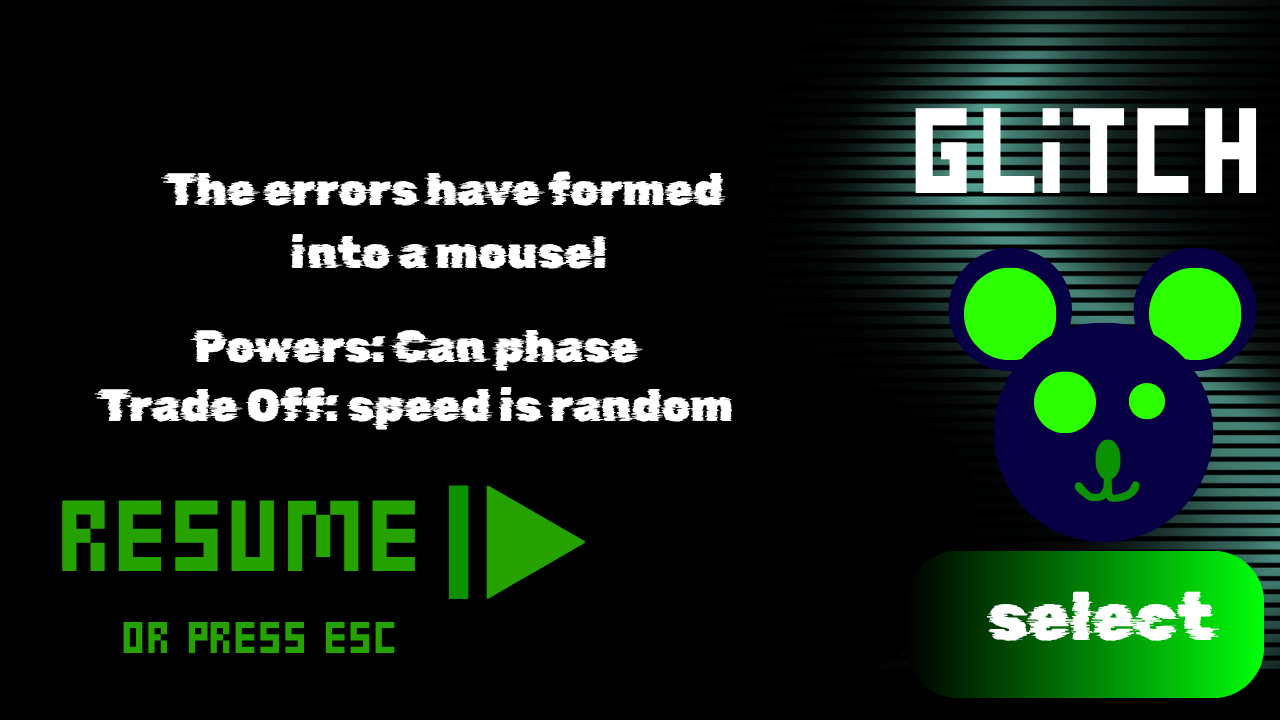
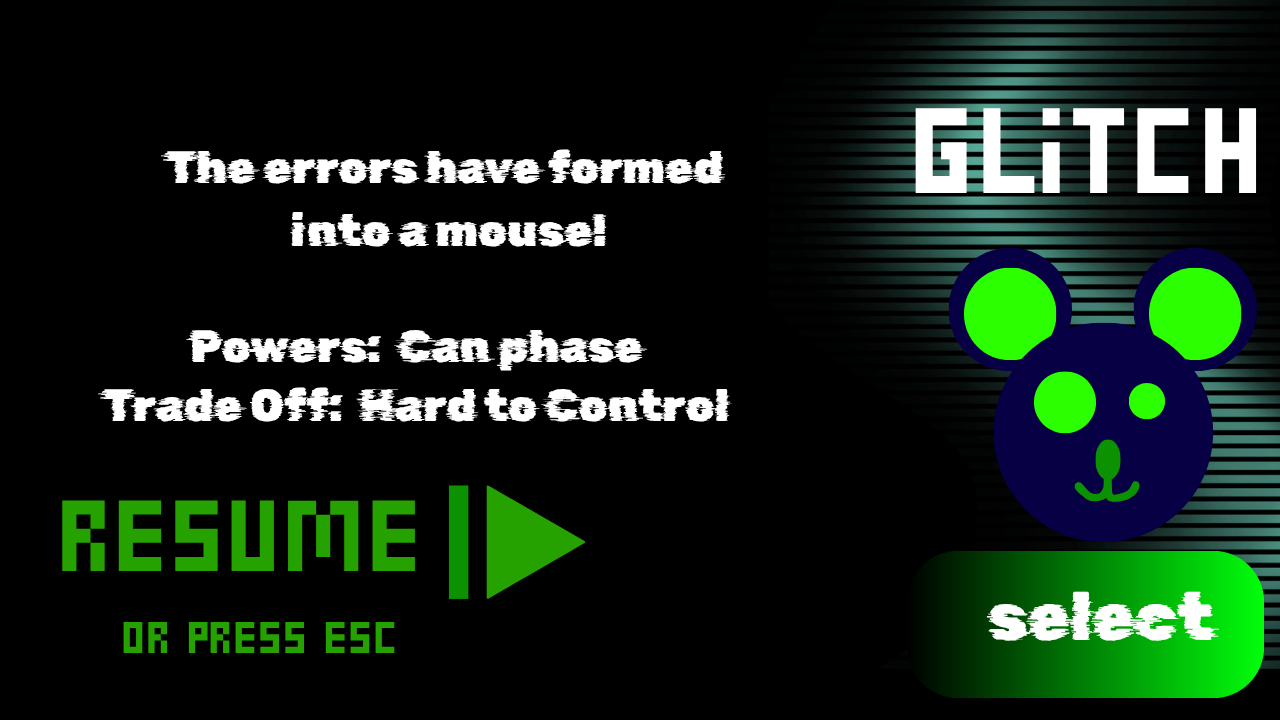
succesfully finished implementing new character glitch

Changed region(s): [[0.125, 0.1833, 0.5625, 0.3972], [0.0625, 0.4583, 0.5938, 0.6111]]

diff --git a/pacman/script.js b/pacman/script.js
@@ -33,6 +33,7 @@ let score = 0
 let steroidsarr = []
 let steroids2arr = []
 let wallsarr = []
+let boundaries = []
 let holesarr = []
 let extra = 0
 let pacmanspeed = 1+extra
@@ -43,25 +44,26 @@ console.log((canvas.width/4*3)/2-blocksize*4.5)
 console.log(blocksize/2)
 let grid = []
 const maps = {
-    0:["1111111111111111111111111111111".split(""),
-       "1000000000015555555510000000001".split(""),
-       "1011111111011115111110111111101".split(""),
-       "1014000000000000000000000000101".split(""),
-       "1010101111111110111111111010101".split(""),
-       "1010101000000000100000041010101".split(""),
-       "1000101011111010101111101010001".split(""),
-       "1010101000000010101000101010101".split(""),
-       "1010101011111010001010101010101".split(""),
+    //0 = hall, 1 = wall, 3 = portal, 4 = big orb, 5 = ghost chamber, 9 = special bounds
+    0:["9999999999999999999999999999999".split(""),
+       "9000000000015555555510000000009".split(""),
+       "9011111111011115111110111111109".split(""),
+       "9014000000000000000000000000109".split(""),
+       "9010101111111110111111111010109".split(""),
+       "9010101000000000100000041010109".split(""),
+       "9000101011111010101111101010009".split(""),
+       "9010101000000010101000101010109".split(""),
+       "9010101011111010001010101010109".split(""),
        "3010000000001010100010101010103".split(""),
-       "1010101011101010101010101010101".split(""),
-       "1010101011101010101010101010101".split(""),
-       "1000101011101010000010101010001".split(""),
-       "1010101000041010101010101010101".split(""),
-       "1010101111111010101010101010101".split(""),
-       "1010000000000000000000000004101".split(""),
-       "1011110111111110111111110111101".split(""),
-       "1400000000000000000000000000001".split(""),
-       "1111111111111111111111111111111".split("")],
+       "9010101011101010101010101010109".split(""),
+       "9010101011101010101010101010109".split(""),
+       "9000101011101010000010101010009".split(""),
+       "9010101000041010101010101010109".split(""),
+       "9010101111111010101010101010109".split(""),
+       "9010000000000000000000000004109".split(""),
+       "9011110111111110111111110111109".split(""),
+       "9400000000000000000000000000009".split(""),
+       "9999999999999999999999999999999".split("")],
 }
 const maps2 = {
     0:["1111111111111111111111111111111".split(""),
@@ -511,6 +513,11 @@ class steroids2{
         this.radius = 14
     }
     draw() {
+        if(skin!='glitch'){
+            cheeseImg.src = 'cheese.png'
+        }else{
+            cheeseImg.src = 'glitcheese-removebg-preview.png'
+        }
         context.drawImage(
             cheeseImg, 
             this.position.x-20, 
@@ -542,6 +549,7 @@ class wall{
 let clock = 0
 const mouseImg = new Image();
 mouseImg.src = 'mouse.png';
+let glitchclock = 0
 class pacMan {
     constructor({ position, velocity, radius, angle = 0 }) {
         this.position = position
@@ -724,6 +732,19 @@ class pacMan {
             }
             
         }else{
+            if(skin=='glitch'){
+                glitchclock = (glitchclock+1)%240
+                    console.log(glitchclock)
+                    if(glitchclock>180){
+                        mouseImg.src = 'glitchmousebuff1-removebg-preview.png'
+                    }else if(glitchclock>120){
+                        mouseImg.src = 'glitchmousebuff1__1_-removebg-preview.png'
+                    }else if(glitchclock>60){
+                        mouseImg.src = 'glitchmousebuff1__2_-removebg-preview.png'
+                    }else{
+                        mouseImg.src = 'glitchbuff-removebg-preview.png'
+                    }
+            }
             context.drawImage(
                 mouseImg, 
                 this.position.x-36, 
@@ -909,7 +930,13 @@ grid.forEach((row, y) => {
                 width: blocksize,
                 height: blocksize
             }));
-        } else if (symbol === "4") {
+        }else if(symbol==="9"){
+            boundaries.push(new wall({
+                position: { x: centerX, y: centerY },
+                width: blocksize,
+                height: blocksize
+            }));
+        }else if (symbol === "4") {
             steroids2arr.push(new steroids2({
                 position: { x: centerX, y: centerY }
             }));
@@ -1025,6 +1052,9 @@ function animate(currentTime) {
         if(blinkymode=='run'){
             if(blinkyrunningtime>=540){
                 blinkymode = 'chase'
+                if(skin = 'glitch'){
+                    glitchUnstuck()
+                }
                 blinkyrunningtime = -1
             }
             blinkyrunningtime+=1
@@ -1106,6 +1136,9 @@ function animate(currentTime) {
         for (let i = wallsarr.length - 1; i >= 0; i--) {
             wallsarr[i].draw()
         }
+        for (let i = boundaries.length - 1; i >= 0; i--) {
+            boundaries[i].draw()
+        }
         for (let i = steroidsarr.length - 1; i >= 0; i--) {
             if (circleCollision(player, steroidsarr[i])) {
                 score += 10;
@@ -1122,7 +1155,7 @@ function animate(currentTime) {
                 if(skin == 'base'){
                     mouseImg.src = 'mouse.png';
                 }else if(skin=='glitch'){
-                    console.log('IT"S TRUE')
+                    glitchclock = (glitchclock+1)%100
                     mouseImg.src = 'glitchbuff-removebg-preview.png'
                 }
                 score+=100
@@ -1151,9 +1184,16 @@ function animate(currentTime) {
             },
             radius: player.radius
         };
-
-        for (let i = 0; i < wallsarr.length; i++) {
-            if (rectCircleCollision(wallsarr[i], desiredPacman)) {
+        if(((blinkymode!='run')&&(winkymode!='run')&&(darkmode!='run'))||skin!='glitch'){
+            for (let i = 0; i < wallsarr.length; i++) {
+                if (rectCircleCollision(wallsarr[i], desiredPacman)) {
+                    canTurn = false;
+                    break;
+                }
+            }
+        }
+        for (let i = 0; i < boundaries.length; i++) {
+            if (rectCircleCollision(boundaries[i], desiredPacman)) {
                 canTurn = false;
                 break;
             }
@@ -1169,7 +1209,37 @@ function animate(currentTime) {
         }
 
         // 2. PAC-MAN COLLISION & SNAPPING (Combined into one loop)
-        for (let i = 0; i < wallsarr.length; i++) {
+        if (((blinkymode!='run')&&(winkymode!='run')&&(darkmode!='run'))||skin!='glitch'){
+            for (let i = 0; i < wallsarr.length; i++) {
+                const futurePacman = {
+                    position: {
+                        x: player.position.x + player.velocity.x * pacmanspeed,
+                        y: player.position.y + player.velocity.y * pacmanspeed
+                    },
+                    radius: player.radius
+                };
+
+                if (rectCircleCollision(wallsarr[i], futurePacman)) {
+
+                    // SNAP TO EDGE: This clears the "stuck" pixels so turning works next frame
+                    if (player.velocity.x > 0) {
+                        player.position.x = wallsarr[i].position.x - (wallsarr[i].width / 2) - player.radius;
+                    } else if (player.velocity.x < 0) {
+                        player.position.x = wallsarr[i].position.x + (wallsarr[i].width / 2) + player.radius;
+                    }
+
+                    if (player.velocity.y > 0) {
+                        player.position.y = wallsarr[i].position.y - (wallsarr[i].height / 2) - player.radius;
+                    } else if (player.velocity.y < 0) {
+                        player.position.y = wallsarr[i].position.y + (wallsarr[i].height / 2) + player.radius;
+                    }
+
+                    player.velocity = { x: 0, y: 0 };
+                    break; 
+                }
+            }
+        }
+        for (let i = 0; i < boundaries.length; i++) {
             const futurePacman = {
                 position: {
                     x: player.position.x + player.velocity.x * pacmanspeed,
@@ -1178,19 +1248,19 @@ function animate(currentTime) {
                 radius: player.radius
             };
 
-            if (rectCircleCollision(wallsarr[i], futurePacman)) {
+            if (rectCircleCollision(boundaries[i], futurePacman)) {
 
                 // SNAP TO EDGE: This clears the "stuck" pixels so turning works next frame
                 if (player.velocity.x > 0) {
-                    player.position.x = wallsarr[i].position.x - (wallsarr[i].width / 2) - player.radius;
+                    player.position.x = boundaries[i].position.x - (boundaries[i].width / 2) - player.radius;
                 } else if (player.velocity.x < 0) {
-                    player.position.x = wallsarr[i].position.x + (wallsarr[i].width / 2) + player.radius;
+                    player.position.x = boundaries[i].position.x + (boundaries[i].width / 2) + player.radius;
                 }
 
                 if (player.velocity.y > 0) {
-                    player.position.y = wallsarr[i].position.y - (wallsarr[i].height / 2) - player.radius;
+                    player.position.y = boundaries[i].position.y - (boundaries[i].height / 2) - player.radius;
                 } else if (player.velocity.y < 0) {
-                    player.position.y = wallsarr[i].position.y + (wallsarr[i].height / 2) + player.radius;
+                    player.position.y = boundaries[i].position.y + (boundaries[i].height / 2) + player.radius;
                 }
 
                 player.velocity = { x: 0, y: 0 };
@@ -2363,7 +2433,8 @@ function resetGame() {
     context.fillStyle = bgcolor
     context.fillRect(0, 0, canvas.width, canvas.height)
     let mapKeys = Object.keys(maps);
-    wallsarr = [];     
+    wallsarr = [];
+    boundaries = []
     steroidsarr = [];   
     steroids2arr = [];  
     playerLives = 3;         
@@ -2385,6 +2456,12 @@ function resetGame() {
 
                     if (symbol === "1") {
                         wallsarr.push(new wall({
+                            position: { x: centerX, y: centerY },
+                            width: blocksize,
+                            height: blocksize
+                        }));
+                    }else if (symbol === "9") {
+                        boundaries.push(new wall({
                             position: { x: centerX, y: centerY },
                             width: blocksize,
                             height: blocksize
@@ -2653,4 +2730,68 @@ function fadeinaudio(a,goto){
         }
         
     }, 50);
+}
+
+
+function glitchUnstuck(){
+    let glitchposX = Math.floor(player.position.x / blocksize);
+    let glitchposY = Math.floor(player.position.y / blocksize);
+
+    if (glitchposY < 0 || glitchposY >= grid.length || glitchposX < 0 || glitchposX >= grid[0].length) {
+        glitchposX = Math.max(0, Math.min(glitchposX, grid[0].length - 1));
+        glitchposY = Math.max(0, Math.min(glitchposY, grid.length - 1));
+    }
+
+    let isinwall = false;
+    for (let i = 0; i < wallsarr.length; i++) {
+        if (rectCircleCollision(wallsarr[i], player)) {
+            isinwall = true;
+            break;
+        }
+    }
+    if (!isinwall) return;
+    let start = [glitchposX,glitchposY]
+    for(let radius = 0;radius<4;radius++){
+        start = [start[0]-1,start[1]-1]
+        for(let i =0;i<radius+2;i++){
+            start[0]+=1
+            if (start[1] < 0 ||start[1] >= grid.length ||start[0] < 0 ||start[0] >= grid[0].length) continue;
+            if(grid[start[1]][start[0]]=='0'){
+                player.position.x = start[0]*blocksize+blocksize/2
+                player.position.y = start[1]*blocksize+blocksize/2
+                return
+            }
+        }
+        for(let i =0;i<radius+2;i++){
+            start[1]+=1
+            if (start[1] < 0 ||start[1] >= grid.length ||start[0] < 0 ||start[0] >= grid[0].length) continue;
+            if(grid[start[1]][start[0]]=='0'){
+                player.position.x = start[0]*blocksize+blocksize/2
+                player.position.y = start[1]*blocksize+blocksize/2
+                return
+            }
+        }
+        for(let i =0;i<radius+2;i++){
+            start[0]-=1
+            if (start[1] < 0 ||start[1] >= grid.length ||start[0] < 0 ||start[0] >= grid[0].length) continue;
+            if(grid[start[1]][start[0]]=='0'){
+                player.position.x = start[0]*blocksize+blocksize/2
+                player.position.y = start[1]*blocksize+blocksize/2
+                return
+            }
+        }
+        for(let i =0;i<radius+1;i++){
+            start[1]-=1
+            if (start[1] < 0 ||start[1] >= grid.length ||start[0] < 0 ||start[0] >= grid[0].length) continue;
+            if(grid[start[1]][start[0]]=='0'){
+                player.position.x = start[0]*blocksize+blocksize/2
+                player.position.y = start[1]*blocksize+blocksize/2
+                return
+            }
+        }
+
+    }
+    //check by a radius of 4 blocks, first loop denotes the 4 radi
+    //the next for loops will loop about the nearby squares and if they are 0 then tp urself there and return
+    
 }
